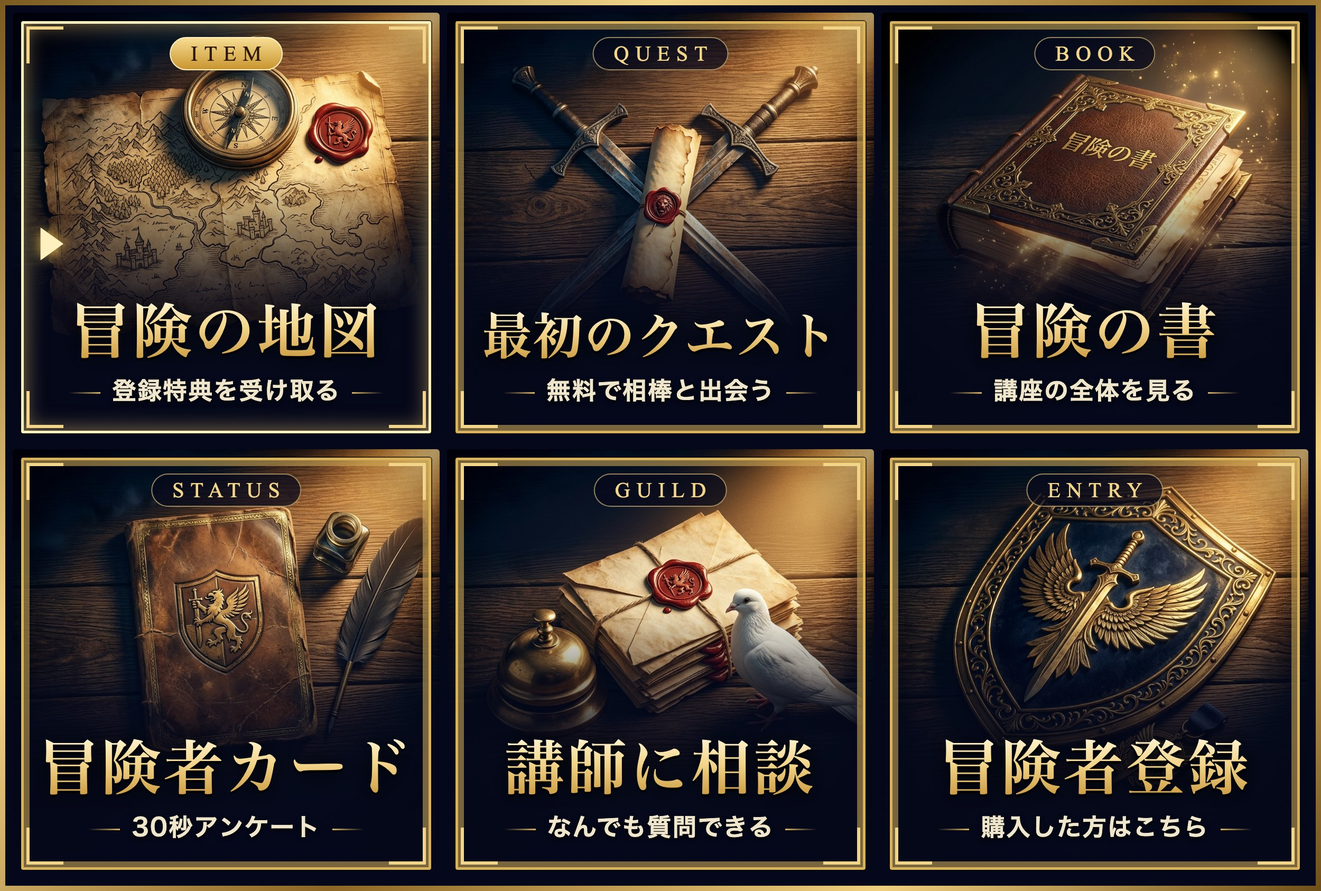
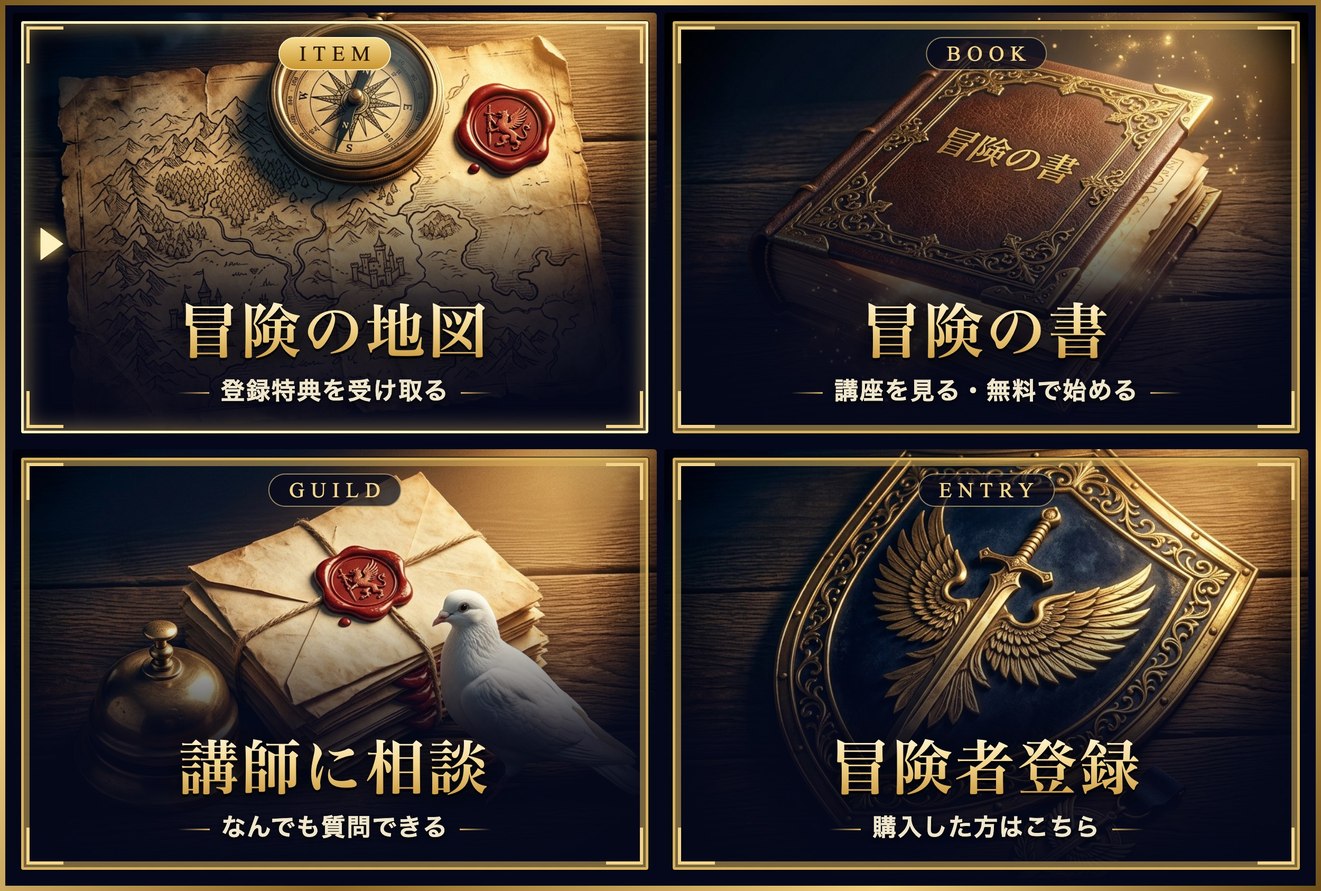
feat: リッチメニューを4分割に整理（同じ講座ページを開く2ボタンを統合、タブと習慣メニューを外す）

diff --git a/lstep-clone/funnels/claude-code-course/assets/richmenu-normal.html b/lstep-clone/funnels/claude-code-course/assets/richmenu-normal.html
@@ -1,16 +1,16 @@
 <!doctype html><html><head><meta charset="utf-8"><link rel="stylesheet" href="rpg-menu.css"></head><body>
-<div class="g" style="grid-template-columns:repeat(3,1fr);grid-template-rows:repeat(2,1fr)">
+<!-- 通常メニュー（全員・4分割）。左上=特典「特典」／右上=講座「講座」／左下=質問フォーム／右下=「購入しました」 -->
+<div class="g" style="grid-template-columns:repeat(2,1fr);grid-template-rows:repeat(2,1fr)">
 <div class="c main" style="background-image:url(richmenu-art/map.png);background-position:center 30%;background-size:cover">
 <i class="corner tl"></i><i class="corner tr"></i><i class="corner bl"></i><i class="corner br"></i>
-<div class="tag">ITEM</div><div class="txt"><div class="t">冒険の地図</div><div class="s">登録特典を受け取る</div></div></div><div class="c" style="background-image:url(richmenu-art/quest.png);background-position:center 30%;background-size:cover">
+<div class="tag">ITEM</div><div class="txt"><div class="t">冒険の地図</div><div class="s">登録特典を受け取る</div></div></div>
+<div class="c" style="background-image:url(richmenu-art/book.png);background-position:center 30%;background-size:cover">
 <i class="corner tl"></i><i class="corner tr"></i><i class="corner bl"></i><i class="corner br"></i>
-<div class="tag">QUEST</div><div class="txt"><div class="t long">最初のクエスト</div><div class="s">無料で相棒と出会う</div></div></div><div class="c" style="background-image:url(richmenu-art/book.png);background-position:center 30%;background-size:cover">
+<div class="tag">BOOK</div><div class="txt"><div class="t">冒険の書</div><div class="s">講座を見る・無料で始める</div></div></div>
+<div class="c" style="background-image:url(richmenu-art/guild.png);background-position:center 32%;background-size:cover">
 <i class="corner tl"></i><i class="corner tr"></i><i class="corner bl"></i><i class="corner br"></i>
-<div class="tag">BOOK</div><div class="txt"><div class="t">冒険の書</div><div class="s">講座の全体を見る</div></div></div><div class="c" style="background-image:url(richmenu-art/card.png);background-position:center 30%;background-size:cover">
-<i class="corner tl"></i><i class="corner tr"></i><i class="corner bl"></i><i class="corner br"></i>
-<div class="tag">STATUS</div><div class="txt"><div class="t">冒険者カード</div><div class="s">30秒アンケート</div></div></div><div class="c" style="background-image:url(richmenu-art/guild.png);background-position:center 30%;background-size:cover">
-<i class="corner tl"></i><i class="corner tr"></i><i class="corner bl"></i><i class="corner br"></i>
-<div class="tag">GUILD</div><div class="txt"><div class="t">講師に相談</div><div class="s">なんでも質問できる</div></div></div><div class="c" style="background-image:url(richmenu-art/entry.png);background-position:center 30%;background-size:cover">
+<div class="tag">GUILD</div><div class="txt"><div class="t">講師に相談</div><div class="s">なんでも質問できる</div></div></div>
+<div class="c" style="background-image:url(richmenu-art/entry.png);background-position:center 30%;background-size:cover">
 <i class="corner tl"></i><i class="corner tr"></i><i class="corner bl"></i><i class="corner br"></i>
 <div class="tag">ENTRY</div><div class="txt"><div class="t">冒険者登録</div><div class="s">購入した方はこちら</div></div></div>
 </div></body></html>

diff --git a/lstep-clone/funnels/claude-code-course/README.md b/lstep-clone/funnels/claude-code-course/README.md
@@ -7,8 +7,8 @@
 | 素材 | 場所 |
 |---|---|
 | 登録特典PDF「スキルクエストの歩き方」 | `public/gift/skillquest-start-guide.pdf`（スキルステップから `/gift/skillquest-start-guide.pdf` で配信。元HTMLは `assets/gift.html`） |
-| リッチメニュー画像（通常・6分割・RPGコマンド風） | `assets/richmenu-normal.jpg`（2500×1686。元は `richmenu-normal.html` ＋ `rpg-menu.css`） |
-| リッチメニュー画像（購入者・4分割・RPGコマンド風） | `assets/richmenu-buyer.jpg`（2500×1686。元は `richmenu-buyer.html`） |
+| リッチメニュー画像（通常・4分割・リアルRPG風） | `assets/richmenu-normal.jpg`（2500×1686。元は `richmenu-normal.html` ＋ `rpg-menu.css`、絵は `richmenu-art/`） |
+| リッチメニュー画像（購入者・4分割・リアルRPG風） | `assets/richmenu-buyer.jpg`（2500×1686。元は `richmenu-buyer.html`） |
 
 > 期限内特典3つは、講座ページにある講師サポートから組んだ**仮案**です。講師が提供できるか確認してから公開してください。
 
@@ -97,22 +97,20 @@ node scripts/seed-funnel.mjs funnels/claude-code-course/funnel.mjs --replace
 
 ---
 
-## 4. リッチメニュー（管理画面で画像をアップロードして作成）
+## 4. リッチメニュー（管理画面「リッチメニュー」→「自分で作った画像を使う」で登録）
 
-画像は 2500×1686（6分割）で作成し、管理画面「リッチメニュー」で下記のとおり設定してください。
+画像は 2500×1686（4分割）。2026-10-05 に6分割＋タブ（できた／習慣メニュー）から4分割に整理した（「最初のクエスト」と「冒険の書」が同じ講座ページを開いていたため1つにまとめ、アンケートは「アンケート」と送れば出る）。習慣トラッカーはメニューから外したが、「習慣」「できた」と送れば今まで通り使える。
 
 **通常メニュー（デフォルト）**
 
 | 位置 | 表示 | 動作 |
 |---|---|---|
-| 左上 | 🎁 登録特典 | テキスト送信「特典」 |
-| 中上 | 🎮 World1 無料体験 | URL（`/r/world1` の計測URL） |
-| 右上 | 📘 講座の詳細 | テキスト送信「講座」 |
-| 左下 | 📝 30秒アンケート | フォーム案内（アンケート） |
-| 中下 | 💬 講師に質問 | フォーム案内（質問） |
-| 右下 | ✅ 購入した方 | テキスト送信「購入しました」 |
+| 左上 | 冒険の地図（登録特典） | テキスト送信「特典」 |
+| 右上 | 冒険の書（講座を見る・無料で始める） | テキスト送信「講座」 |
+| 左下 | 講師に相談 | フォーム案内（講師への質問フォーム） |
+| 右下 | 冒険者登録（購入した方） | テキスト送信「購入しました」 |
 
-**購入者メニュー（タグ「購入済み」で自動切替）**: 「受講を始める（スタート）」「World 一覧（講座ページ）」「質問する」「感想を送る」
+**購入者メニュー（タグ「購入済み」で自動切替）**: 「冒険を始める（スタート）」「World マップ（講座ページ）」「講師に相談（質問フォーム）」「旅の記録（感想）」
 
 > メニューのボタンはすべて「相手からの反応」になるので、押すたびに届く情報は**通数0**です。
 
